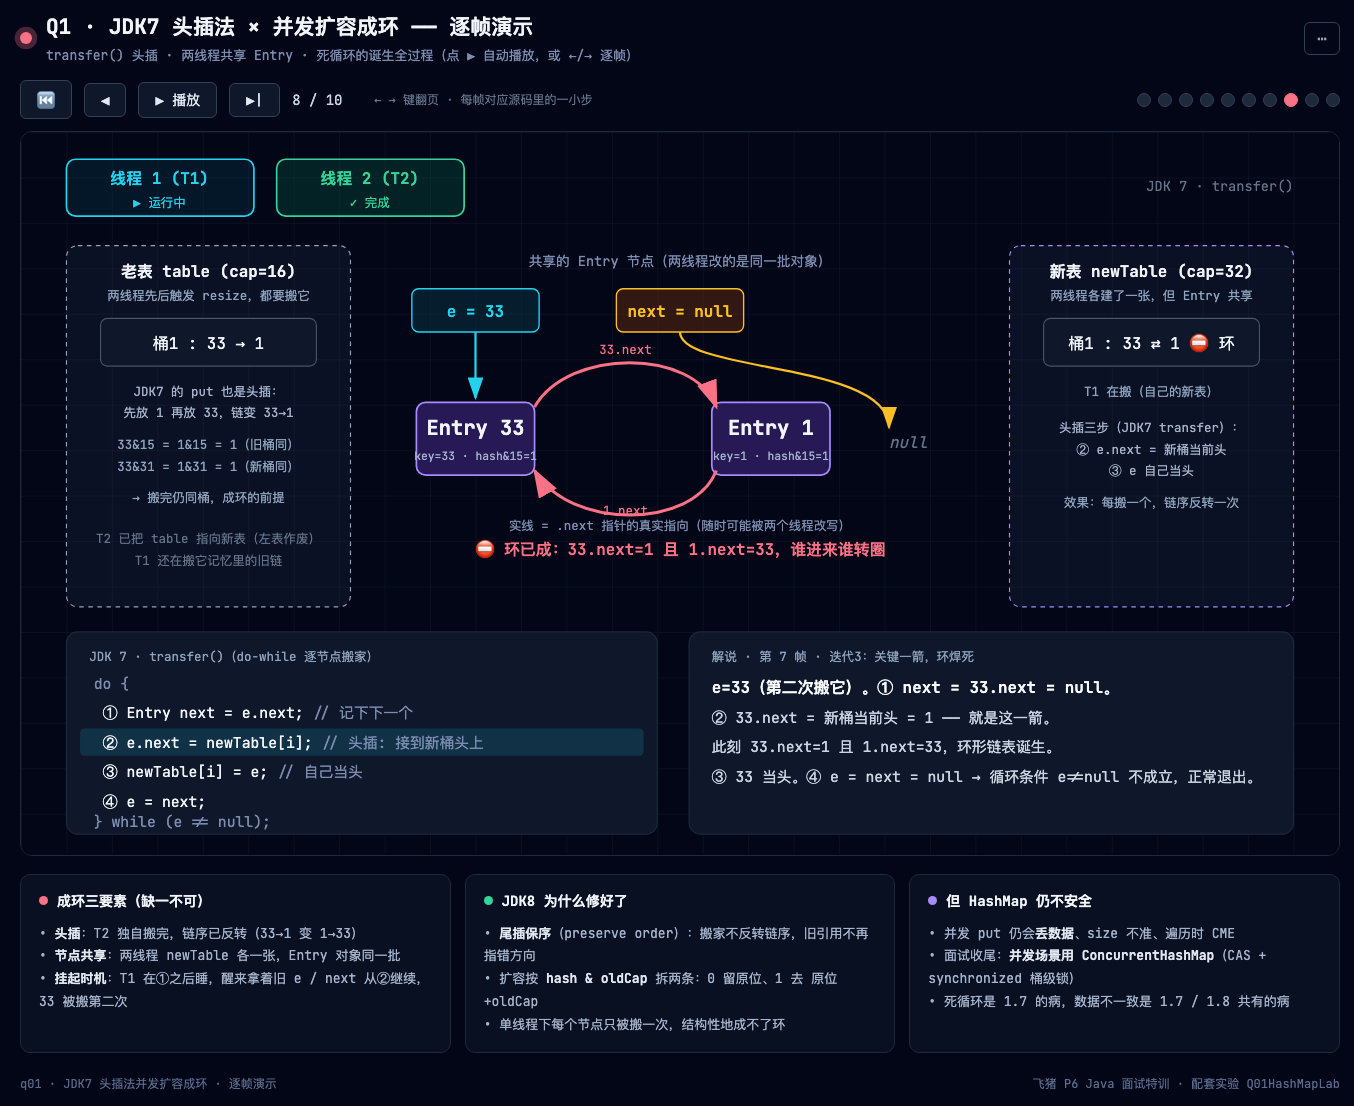
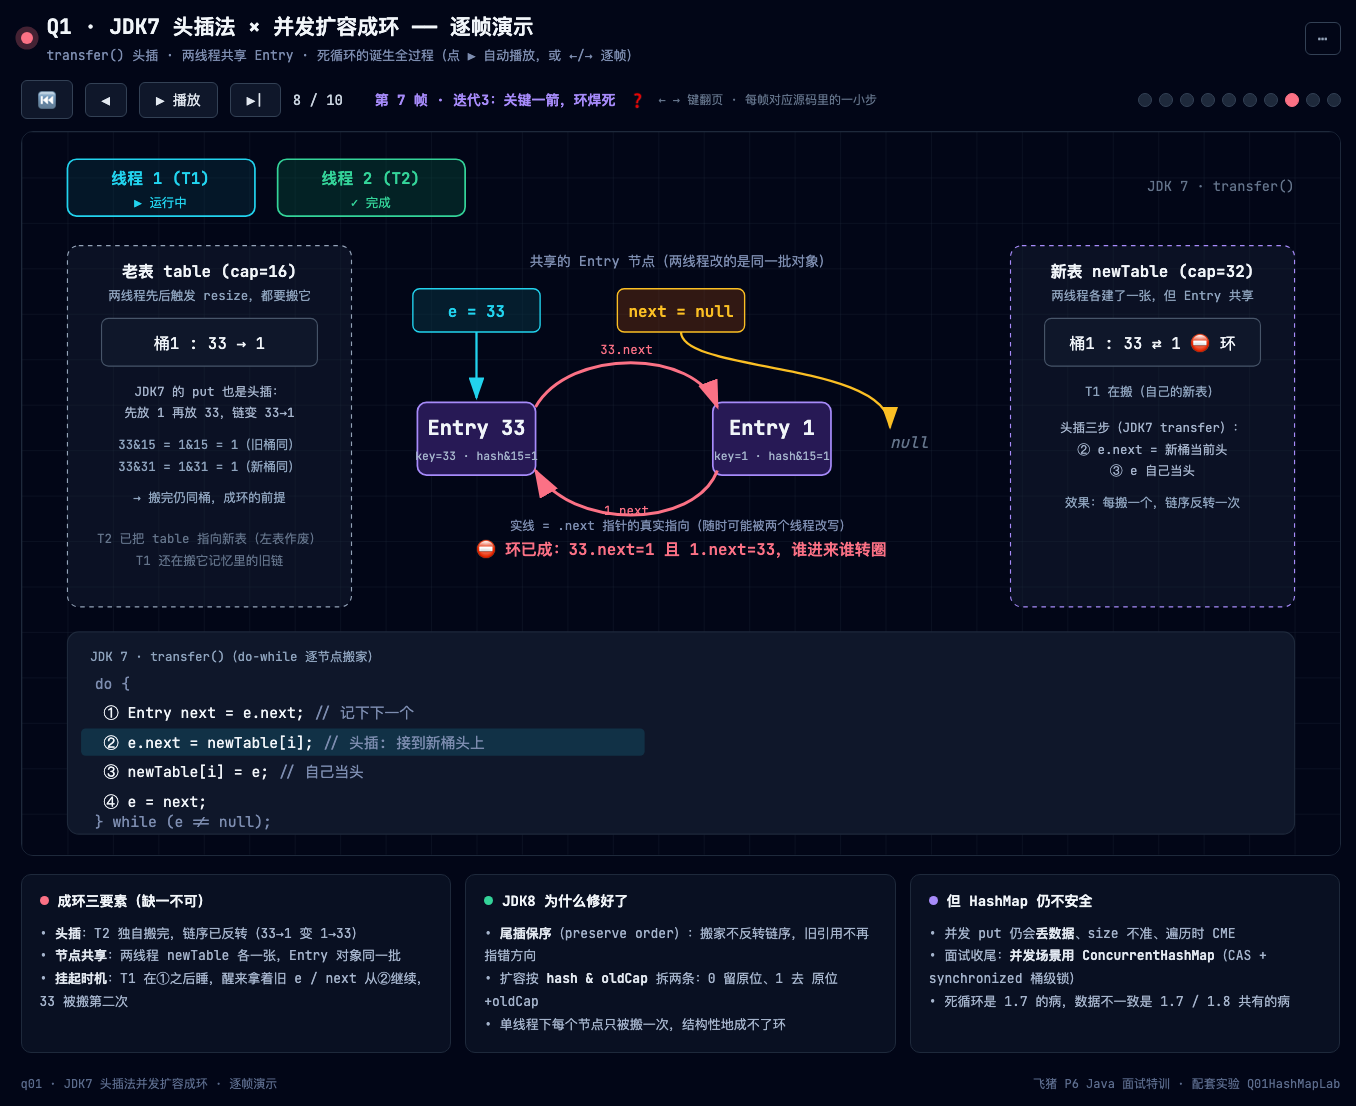
resize 过程动画

diff --git a/doc/fliggyp6/diagrams/q01-resize.html b/doc/fliggyp6/diagrams/q01-resize.html
@@ -53,14 +53,30 @@
   .controls button:hover { border-color: #64748b; }
   .controls button:disabled { opacity: 0.35; cursor: default; }
   .step-ind { font-size: 14px; color: #cbd5e1; min-width: 70px; }
+  .frame-title { font-size: 14px; color: #a78bfa; font-weight: 700; }
+  .qmark { cursor: help; font-size: 15px; color: #7d8db0; }
   .key-hint { font-size: 12px; color: #64748b; }
   .dots { display: flex; gap: 7px; margin-left: auto; align-items: center; flex-wrap: wrap; }
   .dots button { width: 14px; height: 14px; border-radius: 50%; padding: 0; background: #1e293b; border: 1px solid #334155; cursor: pointer; }
   .dots button.cur { background: #a78bfa; border-color: #a78bfa; }
   .dots button:hover { border-color: #a78bfa; }
 
-  .diagram-card { border: 1px solid #1e293b; border-radius: 12px; background: #020617; overflow: hidden; margin-bottom: 18px; }
+  .diagram-card { border: 1px solid #1e293b; border-radius: 12px; background: #020617; overflow: hidden; margin-bottom: 14px; }
   svg.diagram { display: block; width: 100%; height: auto; }
+
+  /* 解说：默认收起，点标题才展开，页面保持干净 */
+  details.caption-box {
+    background: #0f172a; border: 1px solid #1e293b; border-radius: 10px;
+    padding: 10px 20px; margin-bottom: 16px;
+  }
+  details.caption-box summary {
+    cursor: pointer; list-style: none; display: flex; align-items: center; gap: 10px;
+  }
+  details.caption-box summary::-webkit-details-marker { display: none; }
+  details.caption-box summary::after { content: '▸ 展开解说'; color: #64748b; font-size: 12px; margin-left: auto; }
+  details.caption-box[open] summary::after { content: '▾ 收起'; }
+  .caption-title { font-size: 14px; color: #a78bfa; font-weight: 700; }
+  .caption-body { font-size: 15px; color: #cbd5e1; line-height: 1.85; margin-top: 10px; }
 
   .cards { display: grid; grid-template-columns: repeat(3, 1fr); gap: 14px; margin-bottom: 18px; }
   .card { background: rgba(15, 23, 42, 0.6); border: 1px solid #1e293b; border-radius: 10px; padding: 16px 18px; }
@@ -101,12 +117,14 @@
     <button id="btn-play" title="自动播放">▶ 播放</button>
     <button id="btn-next" title="下一帧">▶|</button>
     <span class="step-ind" id="step-ind">1 / 11</span>
+    <span class="frame-title" id="cap-title"></span>
+    <span class="qmark" id="qmark" title="">❓</span>
     <span class="key-hint">← → 键翻页 · 每帧一小步</span>
     <div class="dots" id="dots"></div>
   </div>
 
   <div class="diagram-card">
-    <svg class="diagram" viewBox="0 0 1160 800" xmlns="http://www.w3.org/2000/svg">
+    <svg class="diagram" viewBox="0 0 1160 668" xmlns="http://www.w3.org/2000/svg">
       <defs>
         <pattern id="grid" width="40" height="40" patternUnits="userSpaceOnUse">
           <path d="M 40 0 L 0 0 0 40" fill="none" stroke="#1e293b" stroke-width="0.5"/>
@@ -120,13 +138,10 @@
         <marker id="arrHi" markerWidth="10" markerHeight="7" refX="9" refY="3.5" orient="auto">
           <polygon points="0 0, 10 3.5, 0 7" fill="#fbbf24"/>
         </marker>
-        <marker id="arrCyan" markerWidth="10" markerHeight="7" refX="9" refY="3.5" orient="auto">
-          <polygon points="0 0, 10 3.5, 0 7" fill="#22d3ee"/>
-        </marker>
       </defs>
 
-      <rect width="1160" height="800" fill="#020617"/>
-      <rect width="1160" height="800" fill="url(#grid)"/>
+      <rect width="1160" height="668" fill="#020617"/>
+      <rect width="1160" height="668" fill="url(#grid)"/>
 
       <!-- ===== 源码面板 ===== -->
       <g>
@@ -186,8 +201,7 @@
         <text x="60" y="308" fill="#f1f5f9" font-size="14" font-weight="600">老表 table（cap=16）</text>
         <text x="876" y="308" text-anchor="end" fill="#8ea3bd" font-size="11" id="old-note">size=12 = threshold：压线未超</text>
         <g id="old-cells"></g>
-        <!-- 桶1 的链（挂在桶1下方） -->
-        <line x1="136" y1="368" x2="138" y2="386" stroke="#8ea3bd" stroke-width="1.5" marker-end="url(#arr)"/>
+        <line x1="136" y1="368" x2="138" y2="384" stroke="#8ea3bd" stroke-width="1.5" marker-end="url(#arr)"/>
         <g id="chips"></g>
         <rect id="e-ring" x="112" y="382" width="50" height="42" rx="8" fill="none" stroke="#22d3ee" stroke-width="2.2" opacity="0"/>
         <text x="560" y="410" text-anchor="middle" fill="#cbd5e1" font-size="14" font-weight="600" id="decide" opacity="0"></text>
@@ -211,18 +225,8 @@
         <text x="100" y="574" fill="#f1f5f9" font-size="14" font-weight="600">新表 newTable（cap=32）</text>
         <text x="900" y="574" text-anchor="end" fill="#8ea3bd" font-size="11">格子数翻倍 → 桶17 恰好落在老表一半宽度的位置</text>
         <g id="new-cells"></g>
-        <text x="112" y="646" text-anchor="middle" fill="#34d399" font-size="12" font-weight="700" id="new-lab-1">桶1 : 1→33</text>
-        <text x="512" y="646" text-anchor="middle" fill="#fbbf24" font-size="12" font-weight="700" id="new-lab-17">桶17 : 17→49</text>
-      </g>
-
-      <!-- ===== 解说面板 ===== -->
-      <g>
-        <rect x="40" y="662" width="1080" height="126" rx="10" fill="#0f172a" stroke="#1e293b" stroke-width="1"/>
-        <text x="60" y="686" fill="#8ea3bd" font-size="11" id="cap-title">解说</text>
-        <text x="60" y="712" fill="#f8fafc" font-size="14" font-weight="600" id="cap-0"></text>
-        <text x="60" y="738" fill="#cbd5e1" font-size="13" id="cap-1"></text>
-        <text x="60" y="764" fill="#cbd5e1" font-size="13" id="cap-2"></text>
-        <text x="60" y="788" fill="#a5b4cc" font-size="13" id="cap-3"></text>
+        <text x="112" y="650" text-anchor="middle" fill="#34d399" font-size="12" font-weight="700" id="new-lab-1" opacity="0">桶1 : 1→33</text>
+        <text x="512" y="650" text-anchor="middle" fill="#fbbf24" font-size="12" font-weight="700" id="new-lab-17" opacity="0">桶17 : 17→49</text>
       </g>
     </svg>
   </div>
@@ -266,83 +270,72 @@ const F = [
 { code:-1, cap:'16', size:'12', thr:'12', pct:'75%', bin:null, e:null, moved:[], lo:[], hi:[],
   place:false, nc:{}, nt:false, oldNote:'size=12 = threshold：压线未超', gc:false,
   title:'第 0 帧 · 开局：12 件压线',
-  cap:['老表 cap=16。12 件东西：桶1 摞了 1→17→33→49（链长4），桶2~9 各 1 件。',
-       'size=12 = threshold（16×0.75）——满的程度 12/16 = 75%，刚好压线。',
-       '触发条件是 &gt;（严格大于）：12 &gt; 12 不成立，所以此刻还不扩。',
+  note:['老表 cap=16，桶1 摞了 1→17→33→49，桶2~9 各 1 件：size=12 = threshold，满的程度 75%。',
+       '触发条件是严格大于：12 > 12 不成立，此刻还不扩。',
        '所有数字来自实验 5 的真实输出。'] },
 { code:0, cap:'16', size:'13', thr:'12', pct:'81%', bin:null, e:null, moved:[], lo:[], hi:[],
   place:false, nc:{}, nt:false, oldNote:'第13件已进桶10 · 81% 短暂超载', gc:false,
   title:'第 1 帧 · 第 13 次 put 触发',
-  cap:['put(key=10)：key 10 先正常落进桶 10，然后 putVal 末行判断：',
-       '++size = 13 &gt; threshold = 12 成立 → 调 resize()。',
-       '注意顺序：先插元素、后判断——扩容发生在这次 put 的内部。',
-       '扩容前的一瞬间，16 格里装着 13 件（81%），随后立刻翻倍压回。'] },
+  note:['put(key=10)：key 10 先落进桶 10，然后 putVal 末行判断 ++size=13 > 12 成立，调 resize()。',
+       '先插元素、后判断——扩容发生在这次 put 的内部。',
+       '扩容前一瞬 16 格装 13 件（81%），随后立刻翻倍压回。'] },
 { code:2, cap:'16→32', size:'13', thr:'12→24', pct:'41%', bin:null, e:null, moved:[], lo:[], hi:[],
   place:false, nc:{}, nt:true, oldNote:'新表已造好，东西还都在老表', gc:false,
   title:'第 2 帧 · 定新尺寸，造空新表',
-  cap:['resize() 开场三件事：newCap = 16&lt;&lt;1 = 32，newThr = 12&lt;&lt;1 = 24，',
-       'new Node[32] 造一张全空的新表挂到 table。',
-       '此刻新表全空、老表原封未动——东西还睡在老表里。',
-       'JDK8 没有后台线程搬家，就是当前线程在这次 put 里一口气搬完。'] },
+  note:['resize() 开场：newCap = 16<<1 = 32，newThr = 12<<1 = 24，new Node[32] 造全空新表。',
+       '此刻新表全空、老表原封未动。',
+       '没有后台线程搬家，就是当前线程在这次 put 里一口气搬完。'] },
 { code:4, cap:'32', size:'13', thr:'24', pct:'41%', bin:{k:1,bits:'000001',hi:false}, e:1, moved:[], lo:[1], hi:[],
   place:false, nc:{}, nt:true, oldNote:'搬家循环 · 逐节点问一句', gc:false,
   title:'第 3 帧 · 桶1 的 e=1 → lo 链',
-  cap:['开始搬桶1 的链，逐节点只问一句：hash &amp; 16（oldCap）= ？',
-       'e=1：二进制 000001，16 那一位是 0 → 尾插进 lo 链。',
-       '第一个节点既是头也是尾：loHead = loTail = 1。',
-       '右上二进制面板：亮块就是 16 那一位，它决定去留。'] },
+  note:['搬桶1 的链，逐节点只问一句：hash & 16 = ？',
+       'e=1：二进制 000001，16 那一位是 0 → 尾插进 lo 链，loHead = loTail = 1。',
+       '右上二进制面板：亮块就是判决位。'] },
 { code:4, cap:'32', size:'13', thr:'24', pct:'41%', bin:{k:17,bits:'010001',hi:true}, e:17, moved:[1], lo:[1], hi:[17],
   place:false, nc:{}, nt:true, oldNote:'搬家循环 · 1 已进 lo', gc:false,
   title:'第 4 帧 · e=17 → hi 链',
-  cap:['e=17：010001，16 那一位是 1 → 尾插进 hi 链。',
-       '1 和 17 差在哪？就差 16 这一位——扩容后它俩注定分家。',
-       '旧下标 hash&amp;15 相同（都是 1），新下标 hash&amp;31 差 16。',
-       '这就是“原位 或 原位+oldCap”的全部秘密。'] },
+  note:['e=17：010001，16 那一位是 1 → 尾插进 hi 链。',
+       '1 和 17 就差 16 这一位：旧下标 &15 都是 1，新下标 &31 差 16。',
+       '这就是「原位 或 原位+oldCap」的全部秘密。'] },
 { code:4, cap:'32', size:'13', thr:'24', pct:'41%', bin:{k:33,bits:'100001',hi:false}, e:33, moved:[1,17], lo:[1,33], hi:[17],
   place:false, nc:{}, nt:true, oldNote:'搬家循环 · 尾插不反转', gc:false,
   title:'第 5 帧 · e=33 → lo，尾插保序',
-  cap:['e=33：100001，16 那一位是 0 → lo。',
-       '尾插：接在 loTail（节点1）后面，lo 链 = 1→33。',
-       '顺序没反！老表里 1 在 33 前面，新链里还是 1 在前面。',
-       'JDK7 头插在这一步会把链反转——为另一张动图的悲剧埋下伏笔。'] },
+  note:['e=33：100001，16 那一位是 0 → lo，尾插接在 1 后面：lo = 1→33。',
+       '顺序没反！老表里 1 在 33 前面，新链里还是——尾插保序。',
+       'JDK7 头插在这一步会把链反转，为另一张动图埋下伏笔。'] },
 { code:4, cap:'32', size:'13', thr:'24', pct:'41%', bin:{k:49,bits:'110001',hi:true}, e:49, moved:[1,17,33], lo:[1,33], hi:[17,49],
   place:false, nc:{}, nt:true, oldNote:'桶1 分完：2+2', gc:false,
   title:'第 6 帧 · e=49 → hi，桶1 分完',
-  cap:['e=49：110001，16 位是 1 → hi，接在 17 后面：hi 链 = 17→49。',
-       '桶1 的 4 个节点分完：lo 两个（1,33）、hi 两个（17,49）。',
-       '尾插让两条新链都保持原相对顺序——注释里的 preserve order。',
-       '到此一条长链已经拆成两条短链，查询平均链长减半。'] },
+  note:['e=49：110001，16 位是 1 → hi，接在 17 后面：hi = 17→49。',
+       '桶1 分完：lo 两个（1,33）、hi 两个（17,49），长链拆成两条短链。',
+       '两条新链都保持原相对顺序——注释里的 preserve order。'] },
 { code:5, cap:'32', size:'13', thr:'24', pct:'41%', bin:null, e:null, moved:[1,17,33,49], lo:[1,33], hi:[17,49],
   place:true, nc:{'1':'1·33','17':'17·49'}, nt:true, oldNote:'lo→桶1 · hi→桶1+16', gc:false,
   title:'第 7 帧 · 归位：原位 / 原位+16',
-  cap:['loHead 放 newTab[1]（原位），hiHead 放 newTab[1+16=17]（原位+oldCap）。',
-       '为什么只有两种去处？新下标 hash&amp;31 只比旧下标 hash&amp;15 多看 16 那一位：',
-       '位=0 → 下标不变；位=1 → 下标恰好 +16。不用重新计算 hash。',
-       '下方新表里，桶17 正好落在老表宽度一半的位置——32 格对齐 16 格。'] },
+  note:['loHead 放 newTab[1]（原位），hiHead 放 newTab[1+16=17]（原位+oldCap）。',
+       '为什么只有两种去处？新下标 &31 只比旧下标 &15 多看 16 那一位：位=0 下标不变，位=1 恰好 +16。',
+       '不用重新计算 hash，位运算定去留。'] },
 { code:-1, cap:'32', size:'13', thr:'24', pct:'41%', bin:null, e:null, moved:[1,17,33,49], lo:[1,33], hi:[17,49],
   place:true, nc:{'1':'1·33','17':'17·49','2':'2','3':'3','4':'4','5':'5','6':'6','7':'7','8':'8','9':'9','10':'10'},
   nt:true, oldNote:'其余桶原样平移', gc:false,
   title:'第 8 帧 · 其余桶：单节点直接放',
-  cap:['桶2~10 都是单节点，没有链可拆：hash &amp; 31 直接定位。',
-       'key 2~10 都小于 16，&amp;31 后还是自己 → 全部落回原下标。',
-       '整个扩容只有桶1 发生了“1 拆 2”，其它桶原样平移。',
-       '（若桶里是红黑树，split() 同样按 16 位分流，≤6 个节点还会退化回链表。）'] },
+  note:['桶2~10 都是单节点，没链可拆：hash & 31 直接定位，key 2~10 都落回原下标。',
+       '整个扩容只有桶1 发生了「1 拆 2」，其它桶原样平移。',
+       '（红黑树桶走 split() 同样分流，节点 ≤6 时退化回链表。）'] },
 { code:-1, cap:'32', size:'13', thr:'24', pct:'41%', bin:null, e:null, moved:[1,17,33,49], lo:[1,33], hi:[17,49],
   place:true, nc:{'1':'1·33','17':'17·49','2':'2','3':'3','4':'4','5':'5','6':'6','7':'7','8':'8','9':'9','10':'10'},
   nt:true, oldNote:'已交接', gc:true,
   title:'第 9 帧 · 交接，老表整个 GC',
-  cap:['搬完交接：table 指向新表（第 2 帧就挂好了），resize 返回。',
+  note:['搬完交接：table 指向新表（第 2 帧就挂好了），resize 返回，这次 put 才真正结束。',
        '老表再无人引用，整体丢给 GC——源码里 oldTab[j]=null 顺手断链。',
-       '此刻：size=13、capacity=32、threshold=24。',
-       '这次 put 到这里才真正结束。'] },
+       '此刻 size=13、capacity=32、threshold=24。'] },
 { code:-1, cap:'32', size:'13', thr:'24', pct:'41%', bin:null, e:null, moved:[1,17,33,49], lo:[1,33], hi:[17,49],
   place:true, nc:{'1':'1·33','17':'17·49','2':'2','3':'3','4':'4','5':'5','6':'6','7':'7','8':'8','9':'9','10':'10'},
   nt:true, oldNote:'稳定态：41%', gc:true,
   title:'第 10 帧 · 尾声：41%，均摊 O(1)',
-  cap:['满的程度 = 13/32 ≈ 41%——刚扩完，离新门槛 24 还很远。',
-       '下次触发在第 25 个 put：间隔 12→24→48，翻倍增长。',
-       '搬运总成本 ≈ n + n/2 + n/4 + … ≈ 2n，平摊到每次 put → 均摊 O(1)。',
-       '同场景若换 JDK7 头插：链被反转，并发下就是另一张动图的死循环。'] },
+  note:['满的程度 = 13/32 ≈ 41%——刚扩完，离新门槛 24 还很远。',
+       '下次触发在第 25 个 put：间隔 12→24→48 翻倍，搬运总成本 ≈ 2n，均摊 O(1)。',
+       '同场景换 JDK7 头插：链被反转，并发下就是另一张动图的死循环。'] },
 ];
 
 /* ============ 静态构件 ============ */
@@ -458,12 +451,11 @@ function render(i) {
     $('bin-res').setAttribute('fill', '#cbd5e1');
   }
   // 老表格内容
-  $('oc-1').textContent = i === 0 ? '4件↓' : '搬走中';
+  $('oc-1').textContent = i === 0 ? '4件↓' : (i >= 7 ? '已拆' : '搬走中');
   $('oc-10').textContent = i >= 1 ? '10' : '·';
   $('oc-1-box').setAttribute('opacity', i >= 7 ? 0.4 : 1);
   $('gc-mark').setAttribute('opacity', f.gc ? 1 : 0);
   $('gc-text').setAttribute('opacity', f.gc ? 1 : 0);
-  $('oldtab').setAttribute('opacity', 1);
   // 链 chips：已搬的变暗，当前 e 高亮
   KEYS.forEach(k => {
     const moved = f.moved.includes(k);
@@ -506,9 +498,11 @@ function render(i) {
   // 新表
   $('newtab').setAttribute('opacity', f.nt ? 1 : 0.12);
   for (let c = 0; c < 32; c++) $('nc-' + c).textContent = f.nc[c] || '';
-  // 解说
-  $('cap-title').textContent = '解说 · ' + f.title;
-  for (let k = 0; k < 4; k++) $('cap-' + k).innerHTML = f.cap[k] || '';
+  $('new-lab-1').setAttribute('opacity', f.place ? 1 : 0);
+  $('new-lab-17').setAttribute('opacity', f.place ? 1 : 0);
+  // 解说：帧标题进控件栏，全文挂 ❓ 悬停提示，页面无文字块
+  $('cap-title').textContent = f.title;
+  $('qmark').title = f.note.join('\n');
   // 控件
   $('step-ind').textContent = (i + 1) + ' / ' + F.length;
   $('btn-prev').disabled = i === 0;

diff --git a/doc/fliggyp6/diagrams/q01-jdk7-cycle.html b/doc/fliggyp6/diagrams/q01-jdk7-cycle.html
@@ -70,6 +70,8 @@
   .controls button:hover { border-color: #64748b; }
   .controls button:disabled { opacity: 0.35; cursor: default; }
   .step-ind { font-size: 14px; color: #cbd5e1; min-width: 70px; }
+  .frame-title { font-size: 14px; color: #a78bfa; font-weight: 700; }
+  .qmark { cursor: help; font-size: 15px; color: #7d8db0; }
   .key-hint { font-size: 12px; color: #64748b; }
   .dots { display: flex; gap: 7px; margin-left: auto; align-items: center; flex-wrap: wrap; }
   .dots button {
@@ -132,6 +134,8 @@
     <button id="btn-play" title="自动播放">▶ 播放</button>
     <button id="btn-next" title="下一帧">▶|</button>
     <span class="step-ind" id="step-ind">1 / 10</span>
+    <span class="frame-title" id="cap-title"></span>
+    <span class="qmark" id="qmark" title="">❓</span>
     <span class="key-hint">← → 键翻页 · 每帧对应源码里的一小步</span>
     <div class="dots" id="dots"></div>
   </div>
@@ -238,9 +242,9 @@
         <text x="995" y="330" text-anchor="middle" fill="#8ea3bd" font-size="11">效果：每搬一个，链序反转一次</text>
       </g>
 
-      <!-- ===== 下左：源码面板 ===== -->
+      <!-- ===== 下：源码面板（全宽） ===== -->
       <g>
-        <rect x="40" y="440" width="520" height="178" rx="10" fill="#0f172a" stroke="#1e293b" stroke-width="1"/>
+        <rect x="40" y="440" width="1080" height="178" rx="10" fill="#0f172a" stroke="#1e293b" stroke-width="1"/>
         <text x="60" y="466" fill="#8ea3bd" font-size="11">JDK 7 · transfer()（do-while 逐节点搬家）</text>
         <rect id="code-hl" x="52" y="474" width="496" height="24" rx="4" fill="rgba(34,211,238,0.14)" opacity="0"/>
         <text x="64" y="490" fill="#7d8db0" font-size="13">do {</text>
@@ -249,17 +253,6 @@
         <text x="72" y="568" fill="#f1f5f9" font-size="13">③ newTable[i] = e;          <tspan fill="#7d8db0">// 自己当头</tspan></text>
         <text x="72" y="594" fill="#f1f5f9" font-size="13">④ e = next;</text>
         <text x="64" y="612" fill="#7d8db0" font-size="13">} while (e != null);</text>
-      </g>
-
-      <!-- ===== 下右：解说面板 ===== -->
-      <g>
-        <rect x="588" y="440" width="532" height="178" rx="10" fill="#0f172a" stroke="#1e293b" stroke-width="1"/>
-        <text x="608" y="466" fill="#8ea3bd" font-size="11" id="cap-title">解说</text>
-        <text x="608" y="494" fill="#f8fafc" font-size="14" font-weight="600" id="cap-0"></text>
-        <text x="608" y="520" fill="#cbd5e1" font-size="13" id="cap-1"></text>
-        <text x="608" y="546" fill="#cbd5e1" font-size="13" id="cap-2"></text>
-        <text x="608" y="572" fill="#cbd5e1" font-size="13" id="cap-3"></text>
-        <text x="608" y="598" fill="#a5b4cc" font-size="13" id="cap-4"></text>
       </g>
     </svg>
   </div>
@@ -485,9 +478,9 @@ function render(i) {
   // 老表状态
   $('old-state').textContent = i >= 4 ? 'T2 已把 table 指向新表（左表作废）' : '';
   $('old-state2').textContent = i >= 5 ? 'T1 还在搬它记忆里的旧链' : '';
-  // 解说
-  $('cap-title').textContent = '解说 · ' + f.title;
-  for (let k = 0; k < 5; k++) $('cap-' + k).textContent = f.cap[k] || '';
+  // 解说：帧标题进控件栏，全文挂 ❓ 悬停提示，页面无文字块
+  $('cap-title').textContent = f.title;
+  $('qmark').title = f.cap.join('\n');
   // 控件
   $('step-ind').textContent = (i + 1) + ' / ' + F.length;
   $('btn-prev').disabled = i === 0;
